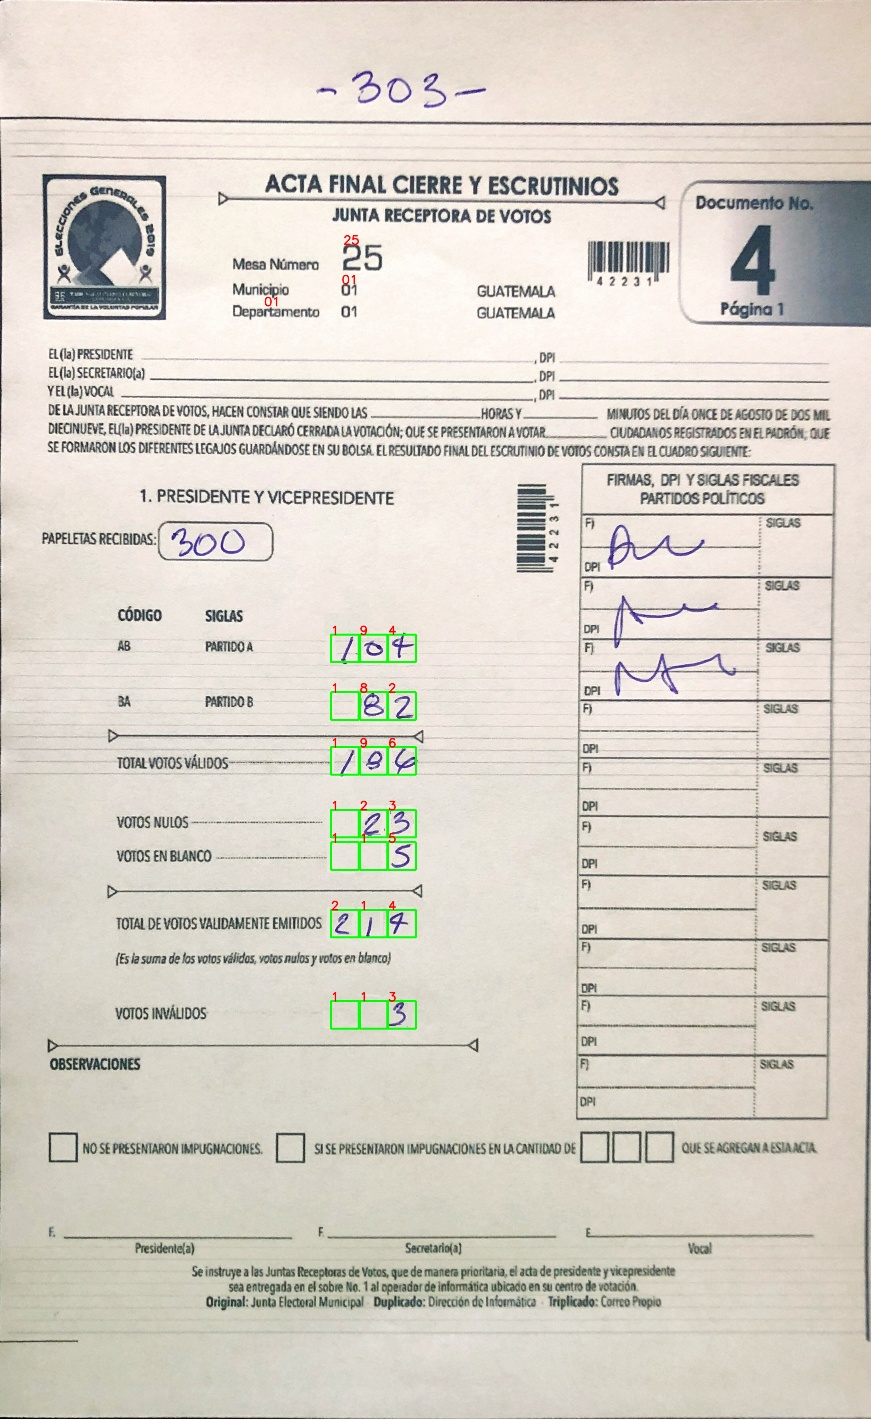
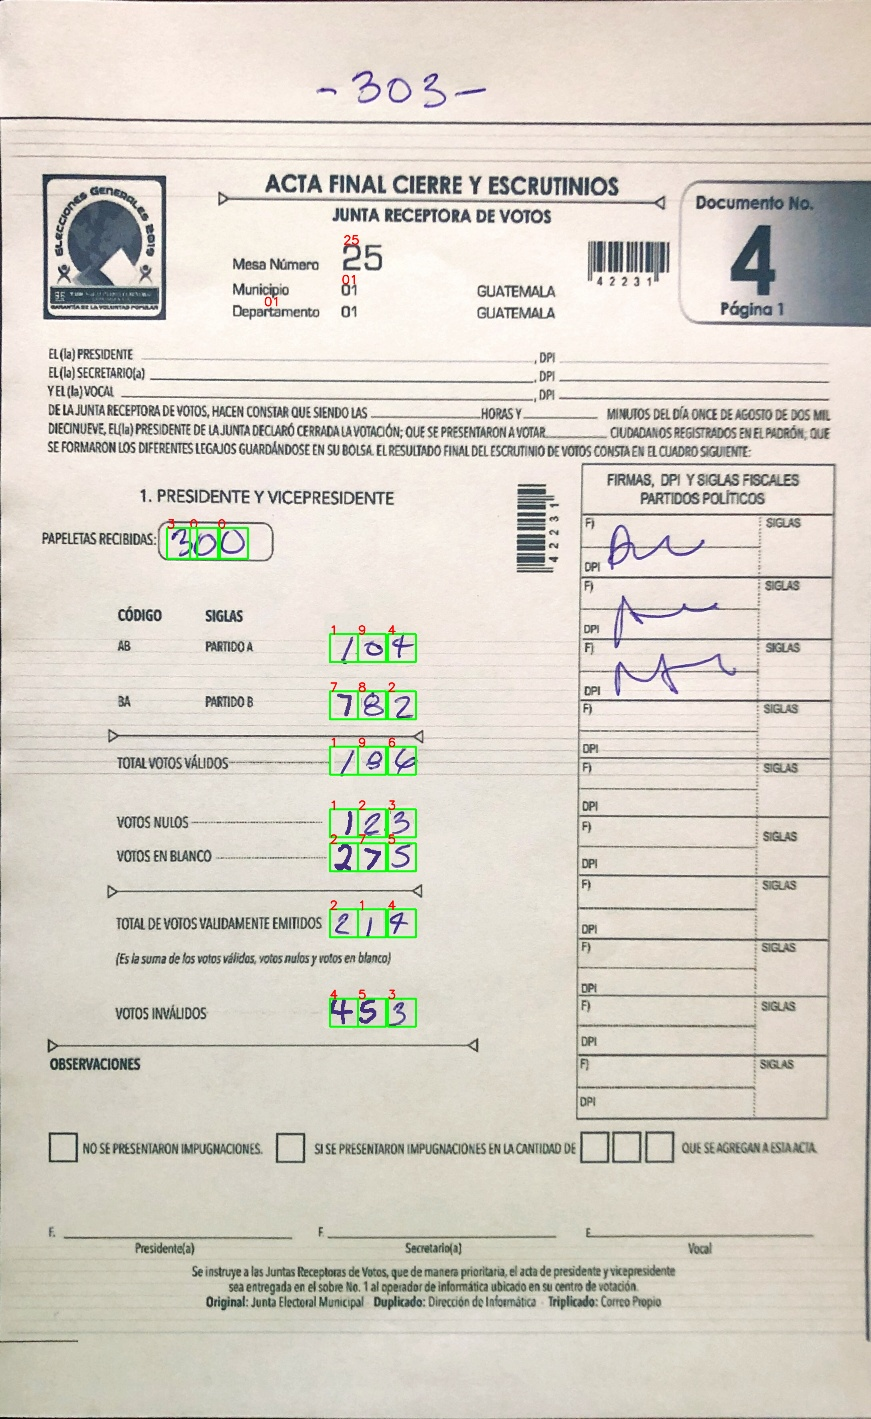
Agregue deteccion y reconocimiento del campo Papeletas recibidas

Changed region(s): [[0.372, 0.4341, 0.465, 0.6512], [0.372, 0.6822, 0.465, 0.7442], [0.186, 0.3721, 0.31, 0.4031]]

diff --git a/preprocess.py b/preprocess.py
@@ -238,7 +238,7 @@ def GetBoundingBoxPapeletas(d):
         #return coord, False
 
     coord = np.array(coord).reshape(-1,4)
-    #coord = np.mean(coord, axis = 0)
+    coord = np.mean(coord, axis = 0)
     return coord, success
 
 def GetBoundingBoxMesa(d):
@@ -417,13 +417,13 @@ def GetBoundingBoxTotales(d):
     coord = np.mean(coord, axis = 0)
     return coord, success
         
-def ExtractRectangles(image):
+def ExtractRectangles(image, type_flag = cv2.RETR_EXTERNAL):
     """
     Obtener rectangular que encierran a cada digito
     Adaptado de https://github.com/leaguilar/election_count_helper
     """
     # Find contours in the image
-    ctrs, hier = cv2.findContours(image, cv2.RETR_EXTERNAL, cv2.CHAIN_APPROX_SIMPLE)
+    ctrs, hier = cv2.findContours(image, type_flag, cv2.CHAIN_APPROX_SIMPLE)
     # Get only parent rectangles that contains each contour
     rects = [cv2.boundingRect(ctr) for ctr in ctrs]
     return rects
@@ -446,10 +446,10 @@ def removeChildrenRects(rects):
                 if ( (cx >= x) and (cy >= y) and ((cx + cw) <= (x+w)) and ((cy + ch) <= (y + h))):
                     has_parent = True
                     break
-                else:
-                    continue
-            else:
-                continue
+                #else:
+                #    continue
+            #else:
+            #    continue
 
         if(has_parent):
             is_external.append(False)
@@ -595,7 +595,7 @@ def predictKerasModel(roi, model, img_size):
     val = np.argmax(prediction[0])
     return val, roi
 
-def GetNumericTotals(img, rects, total_lbl, digit_lbl, model):
+def GetNumericTotals(img, rects, total_lbl, digit_lbl, model, resize = 1.2):
     """
     Given an image, digits bounding box coordinates, and their labels,
     compute and return a list with the detected totales
@@ -610,7 +610,7 @@ def GetNumericTotals(img, rects, total_lbl, digit_lbl, model):
 
     for i, rect in enumerate(rects):
 
-        x,y,w,h = resizeRect(rect, 1.2, img.shape)
+        x,y,w,h = resizeRect(rect, resize, img.shape)
         roi = img[y:y+h, x:x+h]
 
         val, roi = predictPytorchModel(roi,model, img_size)
@@ -746,33 +746,59 @@ def getMesaData(img, d, scale):
 def getImpugnacionesData(img, d, scale):
     return 0,0,0,0
 
-def getPapeletasRecibidas(img, d, scale):
+def getPapeletasRecibidas(img, d, model,scale):
     """
     Obtener el total de papeletas recibidas
     """
     coords, success = GetBoundingBoxPapeletas(d)
     coords = coords*(1.0/scale)
-
-    for j, coor in enumerate(coords):
-        (x,y,w,h) = (int(coor[0]), int(coor[1]), int(coor[2]), int(coor[3]))
-        if success:
-            c1 = np.random.randint(0,256)
-            c2 = np.random.randint(0,256)
-            c3 = np.random.randint(0,256)
-            img = cv2.rectangle(img,(x, y),(x + w, y + h),(c1, c2, c3),3)
-            img = cv2.putText(img,str(j),(x+5, y+5), cv2.FONT_HERSHEY_SIMPLEX, 2,(c1, c2, c3), 2, cv2.LINE_AA)
-        else:
-            img = cv2.rectangle(img,(x,y),(x + w, y + h),(0,0,255),3)
-
-    bbox = np.mean(coords, axis = 0)
-    (x, y, w, h) = (int(bbox[0]), int(bbox[1]), int(bbox[2]), int(bbox[3]))
-    img = cv2.rectangle(img, (x, y), (x + w, y + h), (0, 255, 0), 2)
+    (px, py, pw, ph) = (int(coords[0]), int(coords[1]), int(coords[2]), int(coords[3]))
+    papeletas_crop = img[py:py+ph, px:px+pw]
 
 
-    #(px, py, pw, ph) = (int(coords[0]), int(coords[1]), int(coords[2]), int(coords[3]))
+    gray = cv2.cvtColor(papeletas_crop.copy(), cv2.COLOR_BGR2GRAY)
+    edges = cv2.Canny(gray.copy(), 50, 200, 5)
+    #ret, clean = cv2.threshold(gray.copy(), 0, 255, cv2.THRESH_OTSU)
+    rects = ExtractRectangles(edges)
+    rects = sorted(rects, key = (lambda x: x[2]*x[3]), reverse = True)
+
+    (dx, dy, dw, dh) = rects[0]
+    digits_crop = papeletas_crop[ dy:dy+dh, dx:dx+dw ]
+    gray = cv2.cvtColor(digits_crop.copy(), cv2.COLOR_BGR2GRAY)
+    edges = cv2.Canny(gray.copy(), 50, 200, 5)
+    #ret, clean = cv2.threshold(gray.copy(), 0, 255, cv2.THRESH_OTSU)
+    rects = ExtractRectangles(edges, type_flag = cv2.RETR_LIST)
+    (cleaned_rects,cleaned_rects_vcenter,cleaned_rects_hcenter, avg_w, avg_h) = CleanRectangles(rects, h_min = 20, w_min = 15)
+    #cleaned_rects = sorted(cleaned_rects, key = (lambda x: x[2]*x[3]), reverse = True)[0:3]
+    #cleaned_rects,cleaned_rects_vcenter,cleaned_rects_hcenter = removeChildrenRects(cleaned_rects)  
+
+    ntotales=1
+    ndigitos=3
+    if (len(cleaned_rects_vcenter)>ntotales):
+        totals_lbl,totals_mean=GetLabels(cleaned_rects_vcenter,ntotales)
+    else:
+        print(" >>Se esperan {} pero se encontraron {} totales".format(ntotales, len(cleaned_rects_vcenter)))
+        return 0,0,-1,0
+    
+    if (len(cleaned_rects_vcenter)>ntotales):
+        digit_lbl,digit_mean=GetLabels(cleaned_rects_hcenter,ndigitos)
+        digit_lbl = [-1*lbl+2 for lbl in digit_lbl]  # convertir digit_lbl a las correctas potencias de 10
+    else:
+        print(" >> Se esperan {} pero se encontraron {} digitos".format(ndigitos, len(cleaned_rects_hcenter)))
+        return 0,0,-2,0
+
+    cleaned_rects, totals_lbl, digit_lbl = GetStandardRects(avg_w, avg_h, digit_mean, totals_mean)
+    cleaned_rects = [(r[0]+dx, r[1]+dy, r[2], r[3]) for r in cleaned_rects ]
+    totales, img_totales = GetNumericTotals(papeletas_crop.copy(), cleaned_rects, totals_lbl, digit_lbl, model, 1.2 )
 
 
-    return 0,img,0,0
+    #for rect in cleaned_rects:
+    #    (x, y, w, h) = rect #rects[0]
+    #    cv2.rectangle(digits_crop, (x, y), (x + w, y + h), (0, 255, 0), 2)
+    #(x, y, w, h) = rects[0]
+    #cv2.rectangle(papeletas_crop, (x, y), (x + w, y + h), (0, 0, 255), 2)
+
+    return totales,img_totales,0,coords
 
 def processActa(img , model):
     """
@@ -781,25 +807,30 @@ def processActa(img , model):
     image, success, scale = FindResize(img.copy(), dw, dh)
     d = OCR(image.copy())
 
-    #totales, totales_img, totales_problem, tcoords = getVotosData(img.copy(), d, model, scale)
-    #mesa_data, mesa_img, mesa_problem, mcoords = getMesaData(img.copy(),d, scale)
+    totales, totales_img, totales_problem, tcoords = getVotosData(img.copy(), d, model, scale)
+    mesa_data, mesa_img, mesa_problem, mcoords = getMesaData(img.copy(),d, scale)
     #impug_data, impug_img, impug_problem, icoords = getImpugnacionesData(img.copy(),d, scale)
-    papel_data, papel_img, papel_problem, pcoords = getPapeletasRecibidas(img.copy(),d, scale)
+    papel_data, papel_img, papel_problem, pcoords = getPapeletasRecibidas(img.copy(), d, model, scale)
 
 
-    #tx,ty,tw,th = (int(tcoords[0]), int(tcoords[1]), int(tcoords[2]), int(tcoords[3]))
-    #img[ty:ty+th,tx:tx+tw] = totales_img
-    #mx,my,mw,mh = (int(mcoords[0]), int(mcoords[1]), int(mcoords[2]), int(mcoords[3]))
-    #img[my:my+mh,mx:mx+mw] = mesa_img
+    tx,ty,tw,th = (int(tcoords[0]), int(tcoords[1]), int(tcoords[2]), int(tcoords[3]))
+    img[ty:ty+th,tx:tx+tw] = totales_img
+    
+    mx,my,mw,mh = (int(mcoords[0]), int(mcoords[1]), int(mcoords[2]), int(mcoords[3]))
+    img[my:my+mh,mx:mx+mw] = mesa_img
+    
+    px,py,pw,ph = (int(pcoords[0]), int(pcoords[1]), int(pcoords[2]), int(pcoords[3]))
+    img[py:py+ph,px:px+pw] = papel_img
+
 
     problem = 1
-    return 0, papel_img, problem
+    return 0, img, problem
 
 if __name__ == '__main__':
 
     args = build_arg_parser()
     actas_dir = './datasets/2davuelta/no_cuadro/'
-    actas_filenames = os.listdir(actas_dir)[:1]
+    actas_filenames = os.listdir(actas_dir)[:]
 
     model = loadPytorchModel()
     #model = loadKerasModel()
@@ -820,8 +851,8 @@ if __name__ == '__main__':
                 print("No existe este codigo de problem.")
         else:
             print (totales)
-            cv2.imshow('fig',cv2.resize(img_with_data, None, fx=0.25, fy = 0.25))
-            #cv2.imwrite(out_image_save_path+'result_small_'+file,cv2.resize(img_with_data, None, fx=0.4, fy = 0.4))
+            cv2.imshow('fig',cv2.resize(img_with_data, None, fx=0.5, fy = 0.5))
+            cv2.imwrite(out_image_save_path+'result_small_'+file,cv2.resize(img_with_data, None, fx=0.4, fy = 0.4))
             cv2.waitKey()
             cv2.destroyAllWindows()        
         
@@ -851,3 +882,4 @@ if __name__ == '__main__':
 # -Confude 7 con 1, espacio vacio con 1, 
 # -Remover el recuadro que encierra a los digitos. Tiene un efecto negativo en la prediccion
 # -Anadir numeros testados al dataset para aunque sea indicar que un humano debe revisar el acta
+# - Definir codigos para cada tipo de problema

diff --git a/multidigit_detector.py b/multidigit_detector.py
@@ -226,13 +226,13 @@ def main():
 
     resume = True
     if(resume):
-        checkpoint = torch.load(model_save_path+weight_file+"190.pt", map_location='cpu')
+        checkpoint = torch.load(model_save_path+weight_file+"1200.pt", map_location='cpu')
         model.load_state_dict(checkpoint['model'])
         optimizer.load_state_dict(checkpoint['optimizer'])
         lr_scheduler.load_state_dict(checkpoint['lr_scheduler']) 
 
 
-    do_learn = True
+    do_learn = False
     if(do_learn):
         # load datasets
         trans = transforms.Compose([transforms.ToTensor()]) #transforms.Resize((img_height, img_width)),
@@ -285,8 +285,8 @@ def main():
         ax = fig.add_subplot(1,1,1)
 
 
-        val_dir = './svhn_dataset/val/'
-        img_dirs = os.listdir(val_dir)
+        val_dir = './svhn_dataset/test/'
+        img_dirs = os.listdir(val_dir)[:10]
         #print(img_dirs)
         img_dirs = [(val_dir + x) for x in img_dirs if '.xml' not in x]
 
